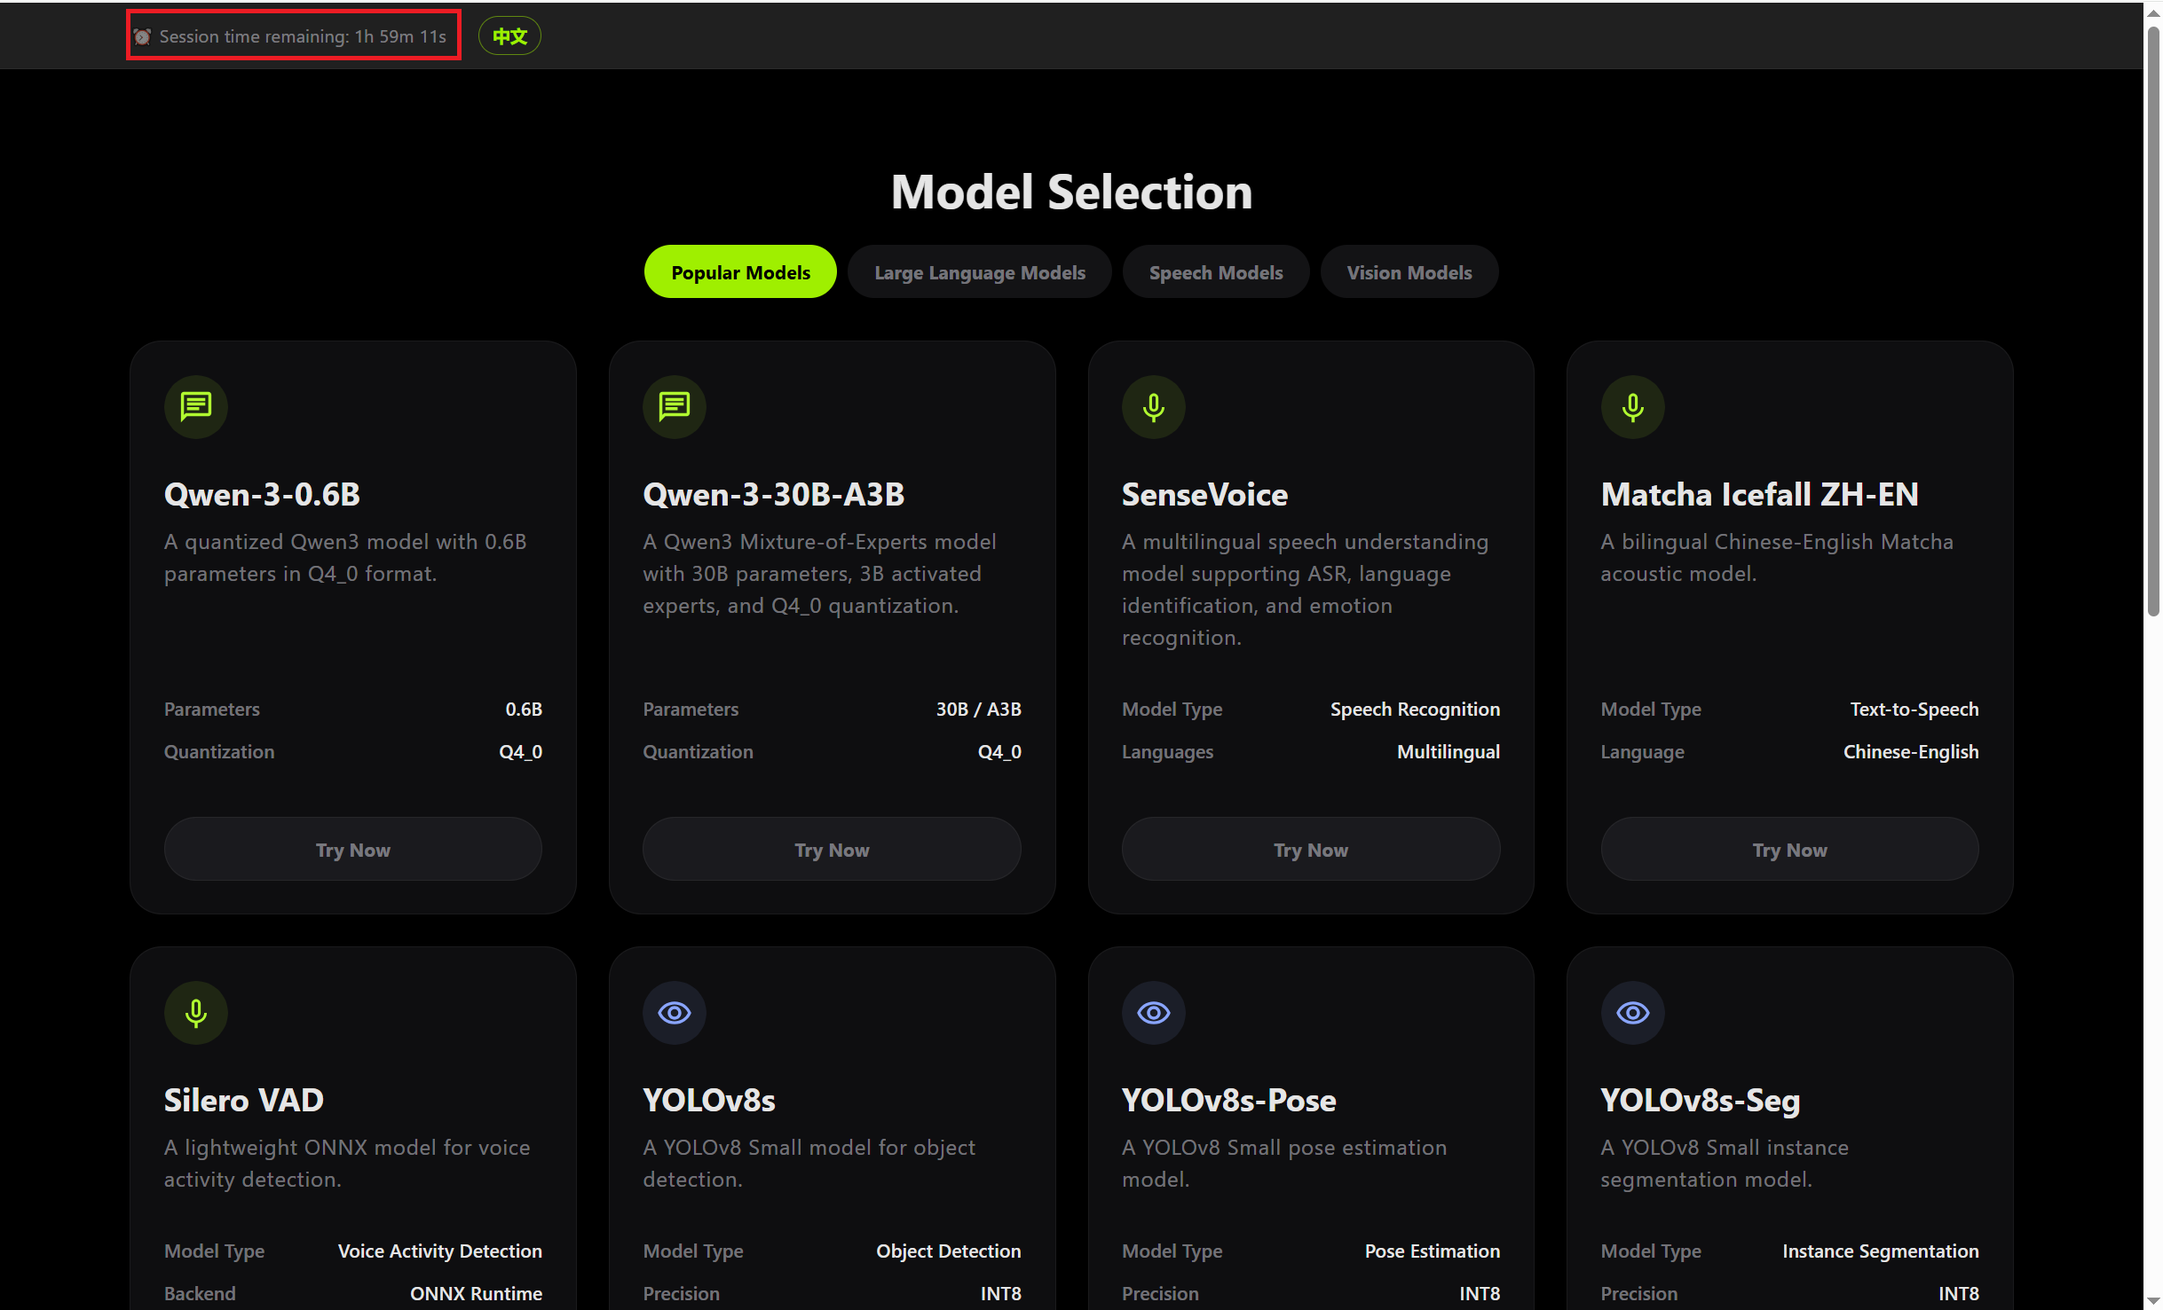
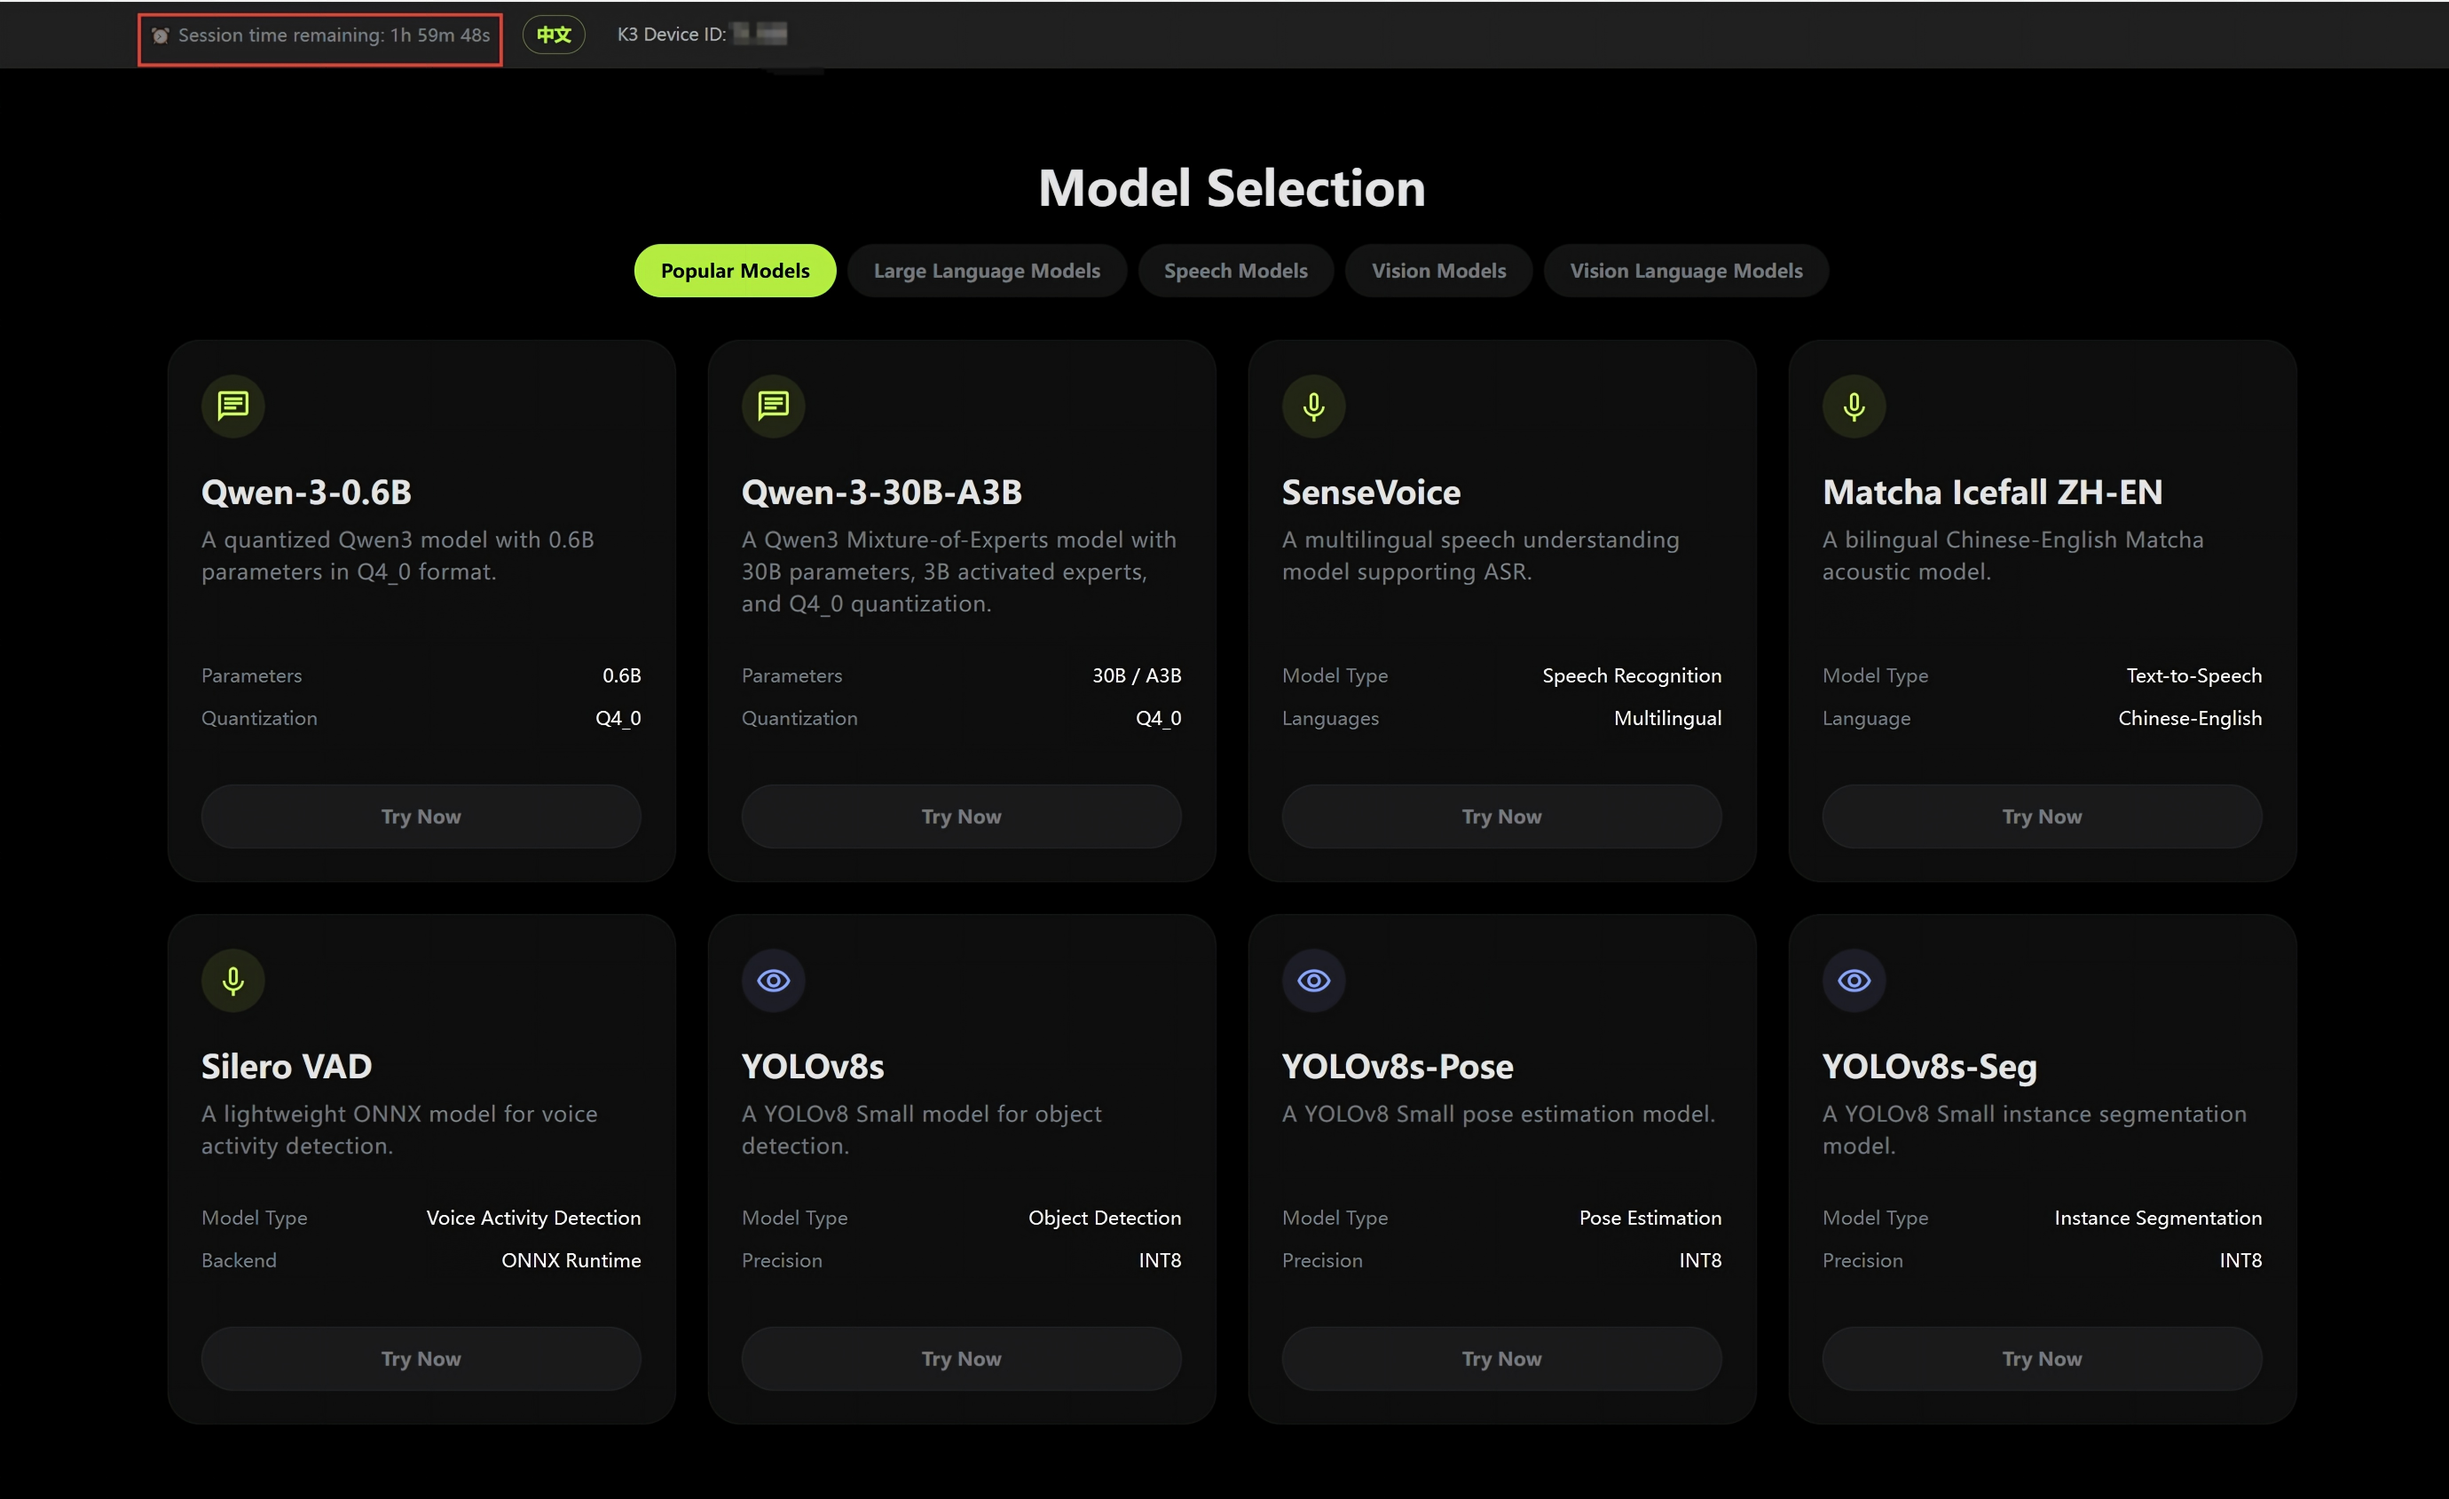
add vlm EN

diff --git a/en/solutions/aicomputer_solution/ailab.md b/en/solutions/aicomputer_solution/ailab.md
@@ -11,8 +11,9 @@ K3 devices also include a built-in AI Lab desktop application for downloading mo
 ## Key Capabilities
 
 - **Cloud hardware access**: Request a cloud K3 instance and run inference directly on real hardware from a browser, with live results and performance metrics.
-- **Vision models**: Object detection, image segmentation, pose estimation, face recognition, and image classification.
+- **Vision models**: Object detection, image segmentation, pose estimation, and image classification.
 - **Large language model chat**: Intelligent Q&A and text generation with streaming output.
+- **VisionLanguage Model（VLM）**： Enables image understanding and visual question answering. Users can upload an image and query it in natural language, with analysis results returned via streaming.
 - **Speech recognition (ASR)**: Audio-to-text transcription with real-time microphone input.
 - **Speech synthesis (TTS)**: Text-to-speech playback.
 - **Voice activity detection (VAD)**: Speech segment detection and boundary splitting.
@@ -40,12 +41,12 @@ K3 devices also include a built-in AI Lab desktop application for downloading mo
 - **Desktop framework**: Electron 41 (RISC-V optimized build, K3 local app)
 - **Frontend**: Vanilla JavaScript + HTML5 + CSS3
 - **Backend**: SpacemiT AI Gateway (port 18790)
-- **Model inference**: ONNX Runtime (vision/speech models) + llama.cpp (LLM, SpacemiT-accelerated build)
+- **Model inference**: ONNX Runtime (vision/speech models) + llama.cpp (LLM, VLM, SpacemiT-accelerated build)
 
 ### Dependent Services
 
-- **AI Gateway**: Unified inference gateway that exposes ASR / TTS / VAD / Vision / LLM domain APIs over HTTP/WebSocket (`/v1/asr`, `/v1/tts`, `/v1/vad`, `/v1/vision`, `/v1/chat/completions`).
-- **llama-server**: Standalone LLM data-plane service; inference requests are proxied through AI Gateway (port 8080).
+- **AI Gateway**: Unified inference gateway that exposes ASR / TTS / VAD / Vision / LLM / VLM domain APIs over HTTP/WebSocket (`/v1/asr`、`/v1/tts`、`/v1/vad`、`/v1/vision`、`/v1/chat/completions`、`/v1/vlm/chat/completions`).
+- **llama-server**: Standalone LLM / VLM  data-plane service; inference requests are proxied through AI Gateway.
 - **Model data source**: Latest model metadata and performance data are fetched from the SpacemiT Model Zoo.
 
 ### Workflows
@@ -78,7 +79,7 @@ sudo apt update
 sudo apt install spacemit-ailab spacemit-ai-gateway
 ```
 
-The installer automatically configures the required systemd services.
+The installer automatically configures the required systemd services and creates a desktop shortcut.
 
 ### Verify the Installation
 
@@ -110,7 +111,6 @@ Search for **AI Lab** in the system application menu, then launch it.
 
 ![Local entry](../static/ailab-start.png)
 
-> **Tip**: Right-click the app icon and select **Add to Desktop**, then mark it as trusted for quick access next time.
 
 ### 3) Interface Overview
 
@@ -118,7 +118,7 @@ After launch, the Model Center home page is displayed. It includes:
 
 - **Top navigation bar**: LAN share link and copy button, auto-start on boot toggle, language switcher.
 - **Instance status bar**: Displays remaining session time during cloud use.
-- **Model category tabs**: Popular, Vision, LLM, Speech.
+- **Model category tabs**: Popular, LLM, Speech, Vision, VLM.
 - **Model card grid**: Shows all available AI models with download and trial status.
 - **Performance dashboard**: Per-model performance metrics on real K3 hardware.
 
@@ -140,6 +140,8 @@ After entering the Model Center, the top status bar shows the remaining session 
 
 ![Instance status bar](../static/ailab-2.png)
 
+![Release instance](../static/ailab-tip.png)
+
 #### 3) Releasing an Instance
 
 - **Automatic release**: The instance is reclaimed automatically after 2 hours or when the Model Center page is closed.
@@ -157,6 +159,7 @@ Click the category tabs at the top of the page to filter models:
 - **Popular**: Most frequently used models.
 - **Vision**: Object detection, image segmentation, pose estimation, image classification, and more.
 - **LLM**: Conversational AI, text generation.
+- **VLM**: Image understanding, visual question answering.
 - **Speech**: ASR transcription, TTS synthesis, VAD detection.
 
 ![Model categories](../static/ailab-3.png)
@@ -193,19 +196,53 @@ Each model card shows:
 | Object detection     | YOLOv8n/s/m, YOLOv11n/s/m, YOLOv5-Gesture, YOLOv5n-Face  |
 | Image segmentation   | YOLOv8n/s/m-seg series                                     |
 | Pose estimation      | YOLOv8n/s/m-pose series                                    |
-| Face recognition     | ArcFace-MobileFaceNet                                      |
 | Image classification | ResNet50                                                   |
 
 ### Large Language Model Chat
 
 1. Find an LLM (e.g., Qwen-3-0.6B) and click **Try Now**.
 2. Type a question in the input box at the bottom. Document links can also be attached. Press Enter or click the send icon.
-3. The model streams its response back; multi-turn conversation is supported.
+3. The model streams its response back.
 4. Click the copy button next to any message to copy the response.
 
 ![LLM chat interface](../static/ailab-5.png)
 
 **Supported LLM models:** Qwen2.5, Qwen3, Qwen3.5 series, and more.
+
+
+### Vision Language Model (VLM)
+
+A Vision Language Model (VLM) can understand both images and natural language. After uploading an image, you can ask questions in natural language, then the model analyzes the image and generates a descriptive response.
+
+1. Locate a VLM model in the model list (e.g., FastVLM-0.5B) and click **Try Now**.
+2. Select an image source in the left sidebar:
+  - **Sample Images**: Click one of the built-in sample images.
+  - **Upload Image**: Click the upload button and select an image from your local device.( Up to three images can be previewed at a time. Click a thumbnail to switch the active image.)
+3. Enter your question in the prompt box (up to 200 characters), for example: "Describe the content of this image."
+4. Click **Start Visual Understanding** and wait for the model to process the image. An "Processing, please wait..." animation is displayed while inference is in progress.
+5. When inference is complete, the right panel displays:
+  - A thumbnail of the input image
+  - A streamed response rendered in Markdown with a typewriter effect
+  - Performance metrics, including **Latency, Time to First Token (TTFT), and Tokens/s**
+
+![VLM chat](../static/ailab-vlm.png)
+
+![VLM chat](../static/ailab-vlm-result.png)
+
+**Supported VLM Models**:
+|Model|Parameters|Size|Description|
+|--|--|--|--|
+|FastVLM-MM-0.5B (Q4_1) | 0.5B      | ~766 MB  |Smallest model with the fastest response time, ideal for quick validation|
+| Qwen3.5-VL-0.8B         | 0.8B      | ~932 MB  | Well-balanced performance|
+| Qwen3.5-VL-2B           | 2B        | ~2.6 GB  | Strong visual understanding capabilities|
+| Qwen3.5-VL-4B           | 4B        | ~3.9 GB  | High-accuracy image understanding|
+| Qwen3-VL-30B-A3B (Q4_1) | 30B (MoE) | ~17.6 GB | Flagship model with the strongest visual understanding capabilities|
+
+> **Notes**
+> - Only a single image is supported per inference request.
+> - Each prompt is limited to 200 characters.
+> - The model is automatically unloaded when you leave the page to free GPU memory.
+
 
 ### Speech Recognition (ASR)
 
@@ -239,7 +276,7 @@ Each model card shows:
 
 View per-model performance metrics for K3 hardware at the bottom of the home page:
 
-- Use the category tabs to filter Vision / LLM / Speech models.
+- Use the category tabs to filter LLM / Speech / Vision / VLM models.
 - Metric definitions:
 
 | Metric          | Full name         | Description                                                                                                            |
@@ -299,9 +336,17 @@ netstat -tulpn | grep 18790
 
 ### Inference is slow
 
-- Use a smaller model variant (e.g., YOLOv8n instead of YOLOv8m).
+- Use a smaller model variant (e.g., YOLOv8n instead of YOLOv8m, FastVLM-0.5B instead of Qwen3.5-VL-4B).
 - Close other resource-intensive applications.
 - Run only one inference task at a time.
+
+### VLM Results Are Inaccurate?
+
+- Try using a larger VLM model (for example, switch from FastVLM-0.5B to Qwen3.5-VL-2B).
+- Refine your prompt by asking more specific questions.
+- Ensure the uploaded image is clear and has sufficient resolution.
+
+
 
 ### LAN sharing is not accessible from other devices
 
@@ -329,6 +374,7 @@ rm -rf ~/.cache/models/
 | ------ | ---------------------------------- | ------ |
 | LLM    | Qwen2.5 / Qwen3 / Qwen3.5 series  | GGUF   |
 | Vision | YOLOv5/v8/v11 series, ResNet50     | ONNX   |
+|  VLM  | FastVLM-0.5B, Qwen3.5series, Qwen3-30B-A3B-VL|GGUF（tar.gz package）|
 | ASR    | SenseVoice, Qwen3-ASR              | tar.gz |
 | TTS    | Matcha-TTS (Chinese / English)     | tar.gz |
 | VAD    | Silero VAD                         | tar.gz |
